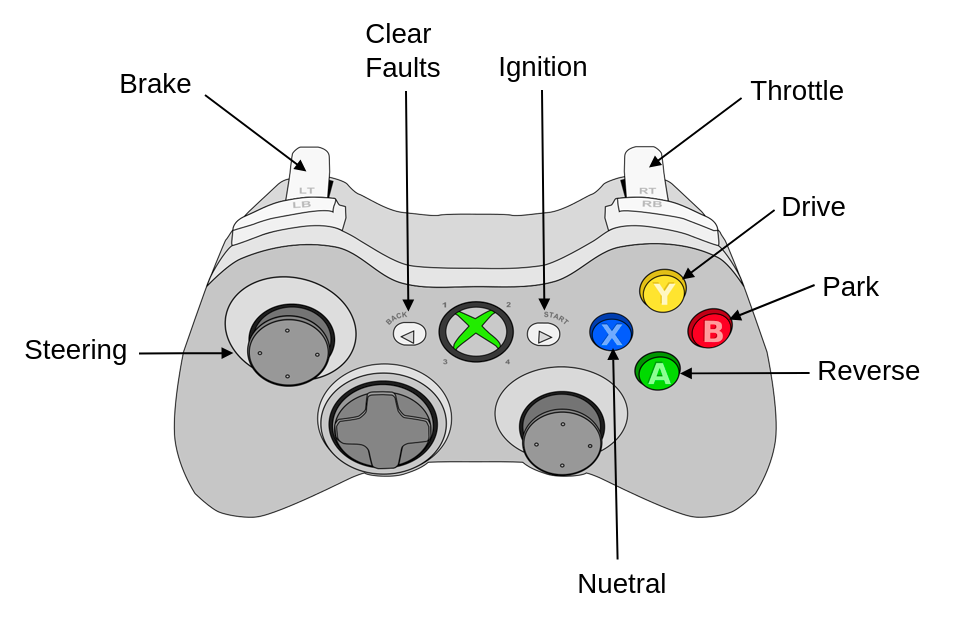
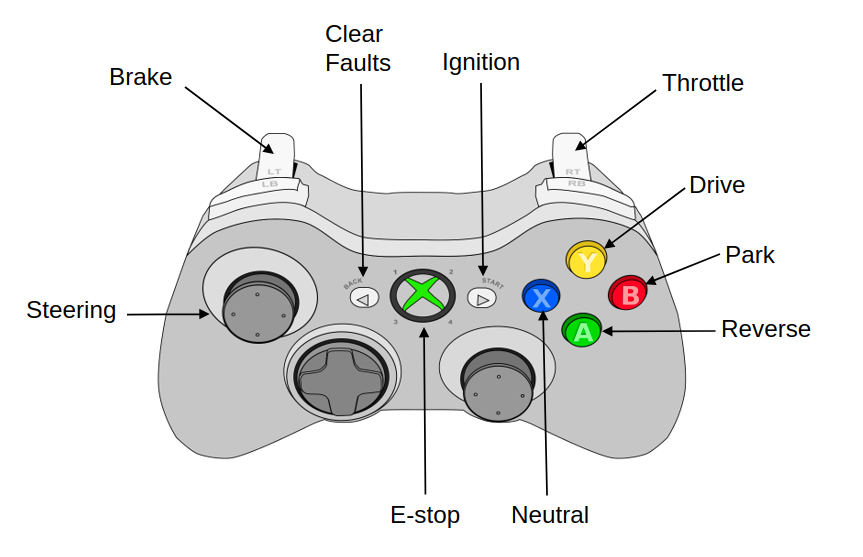
Updated markdown and controller button layout

diff --git a/src/xbox_driver/README.md b/src/xbox_driver/README.md
@@ -33,15 +33,16 @@ This node interfaces directly with the vehicle_controller package in this projec
 * **`~/xbox_joy_cmds`** ([xbox_driver/XboxInterface])
 
   Custom message that remaps controller input for `/joy` topic to user friendly vehicle commands. See screenshot above. The message contains the variables listed below.
-  - Reverse [bool]
-  - Park [bool]
-  - Neutral [bool]
-  - Drive [bool]
-  - ClearFaults [bool]
-  - Ignition [bool]
-  - Throttle [float32]
-  - Brake  [float32]
-  - Steering  [float32]
+  - [bool] Reverse
+  - [bool] Park [bool]
+  - [bool] Neutral [bool]
+  - [bool] Drive [bool]
+  - [bool] ClearFaults [bool]
+  - [bool] Ignition [bool]
+  - [bool] Estop [bool]
+  - [float32] Throttle
+  - [float32] Brake
+  - [float32] Steering
 
 #### Parameters
 
